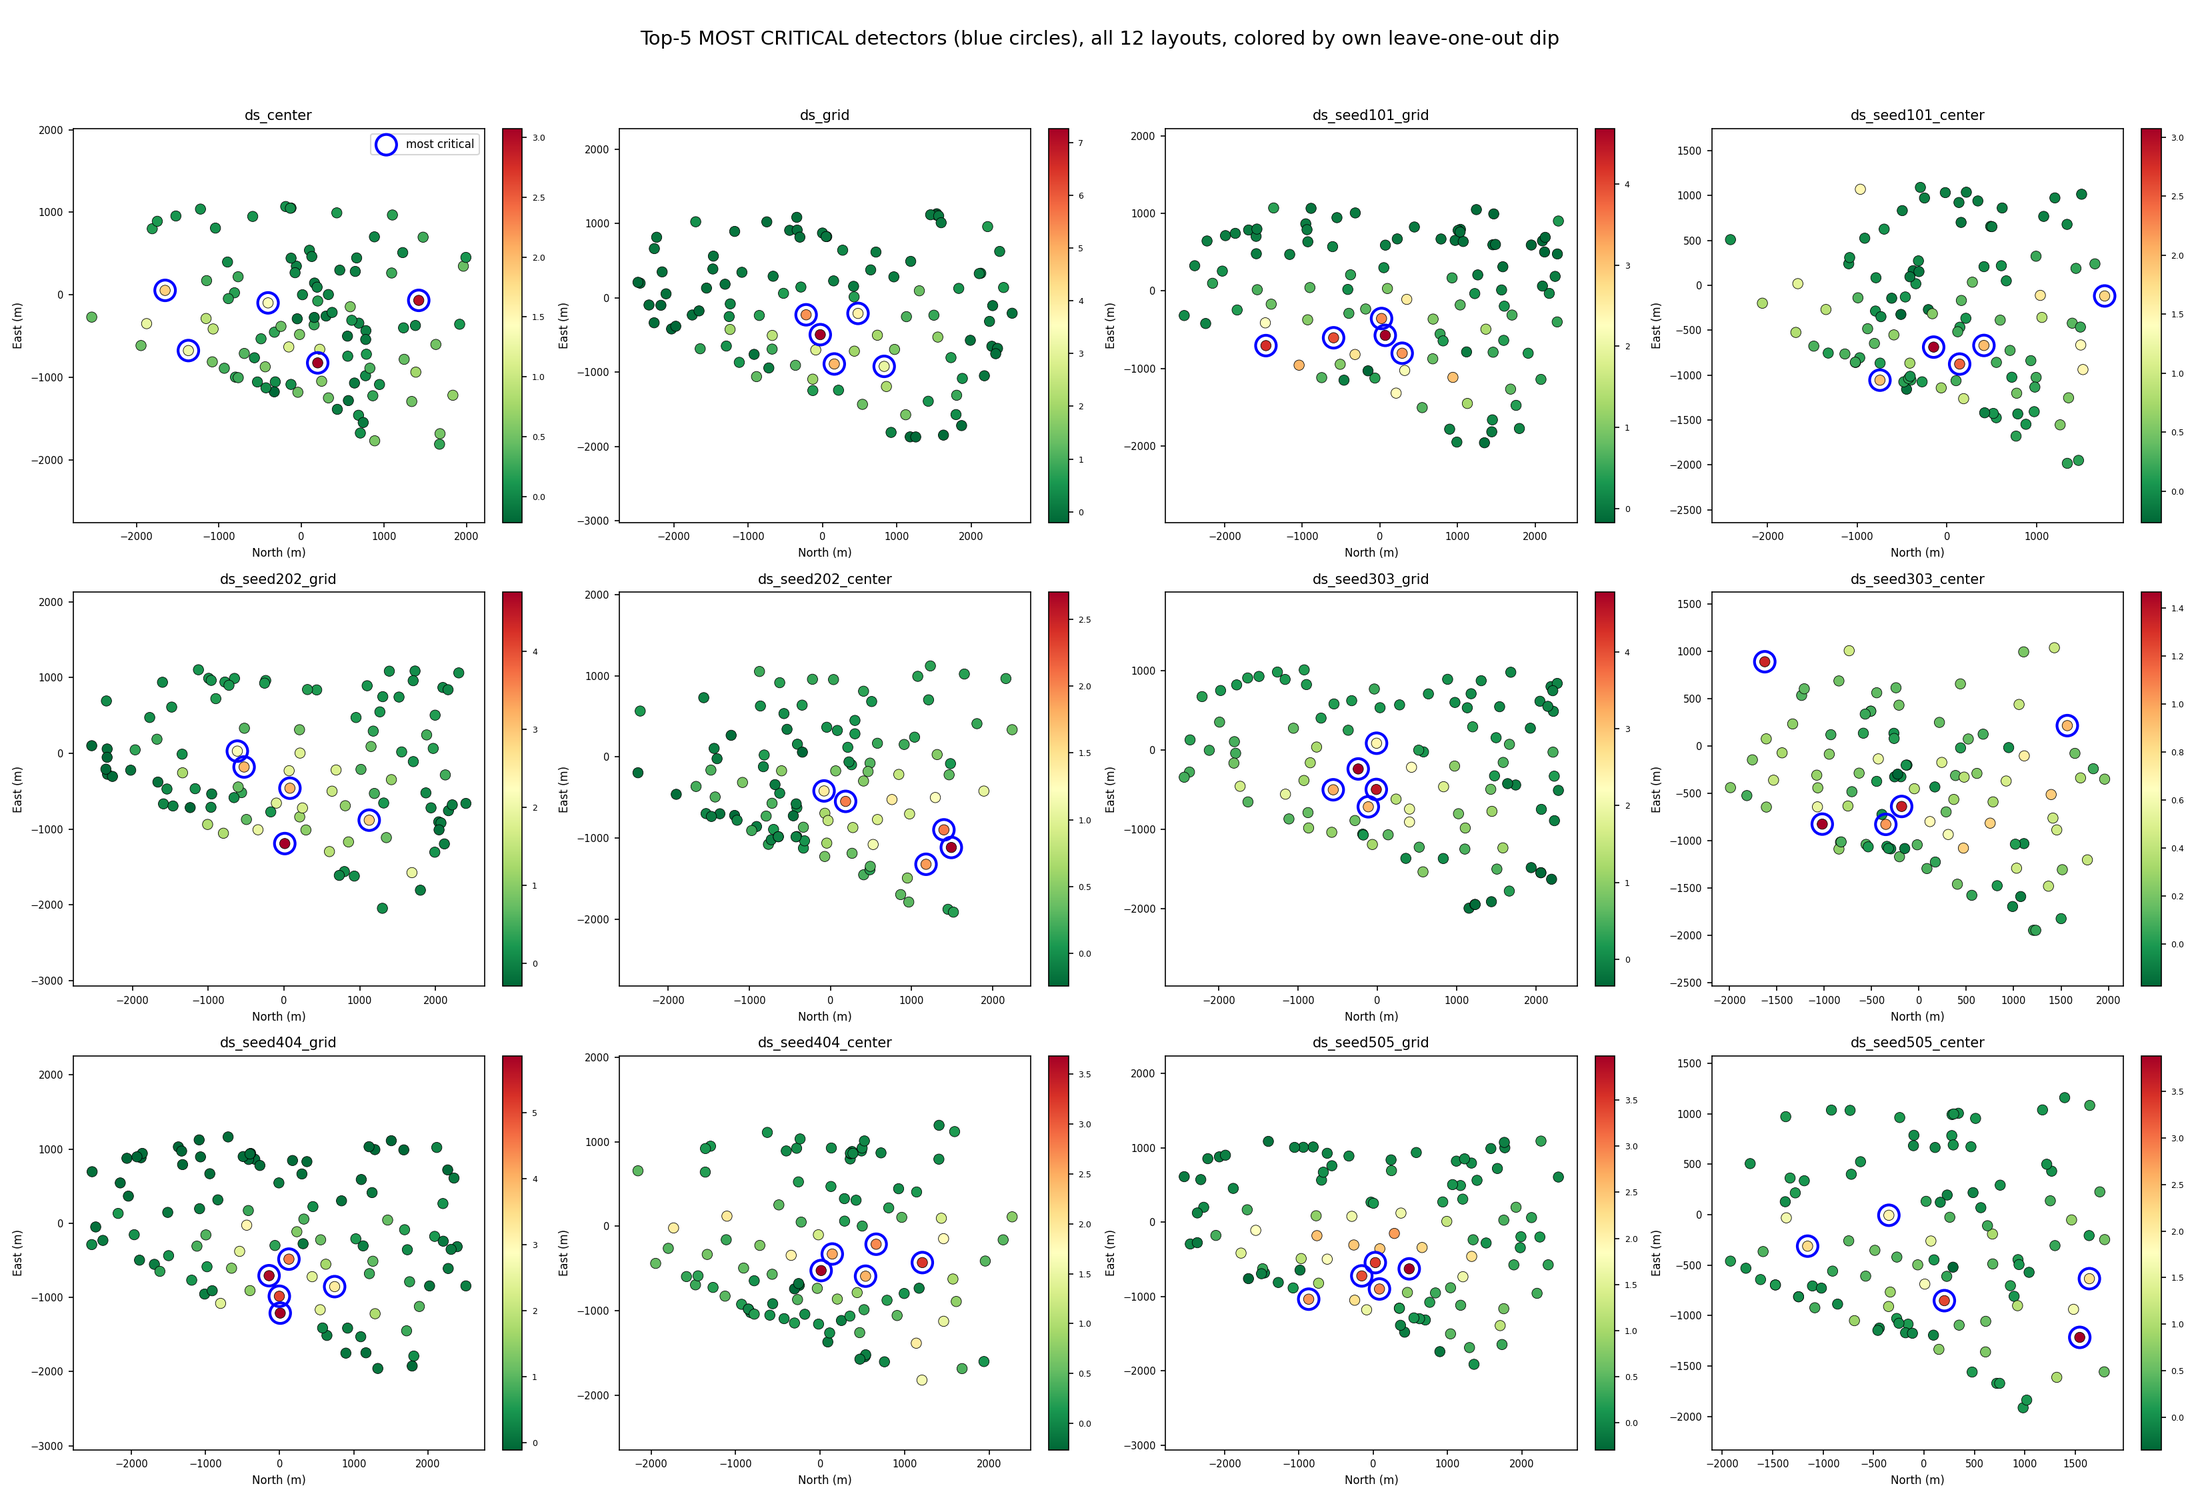
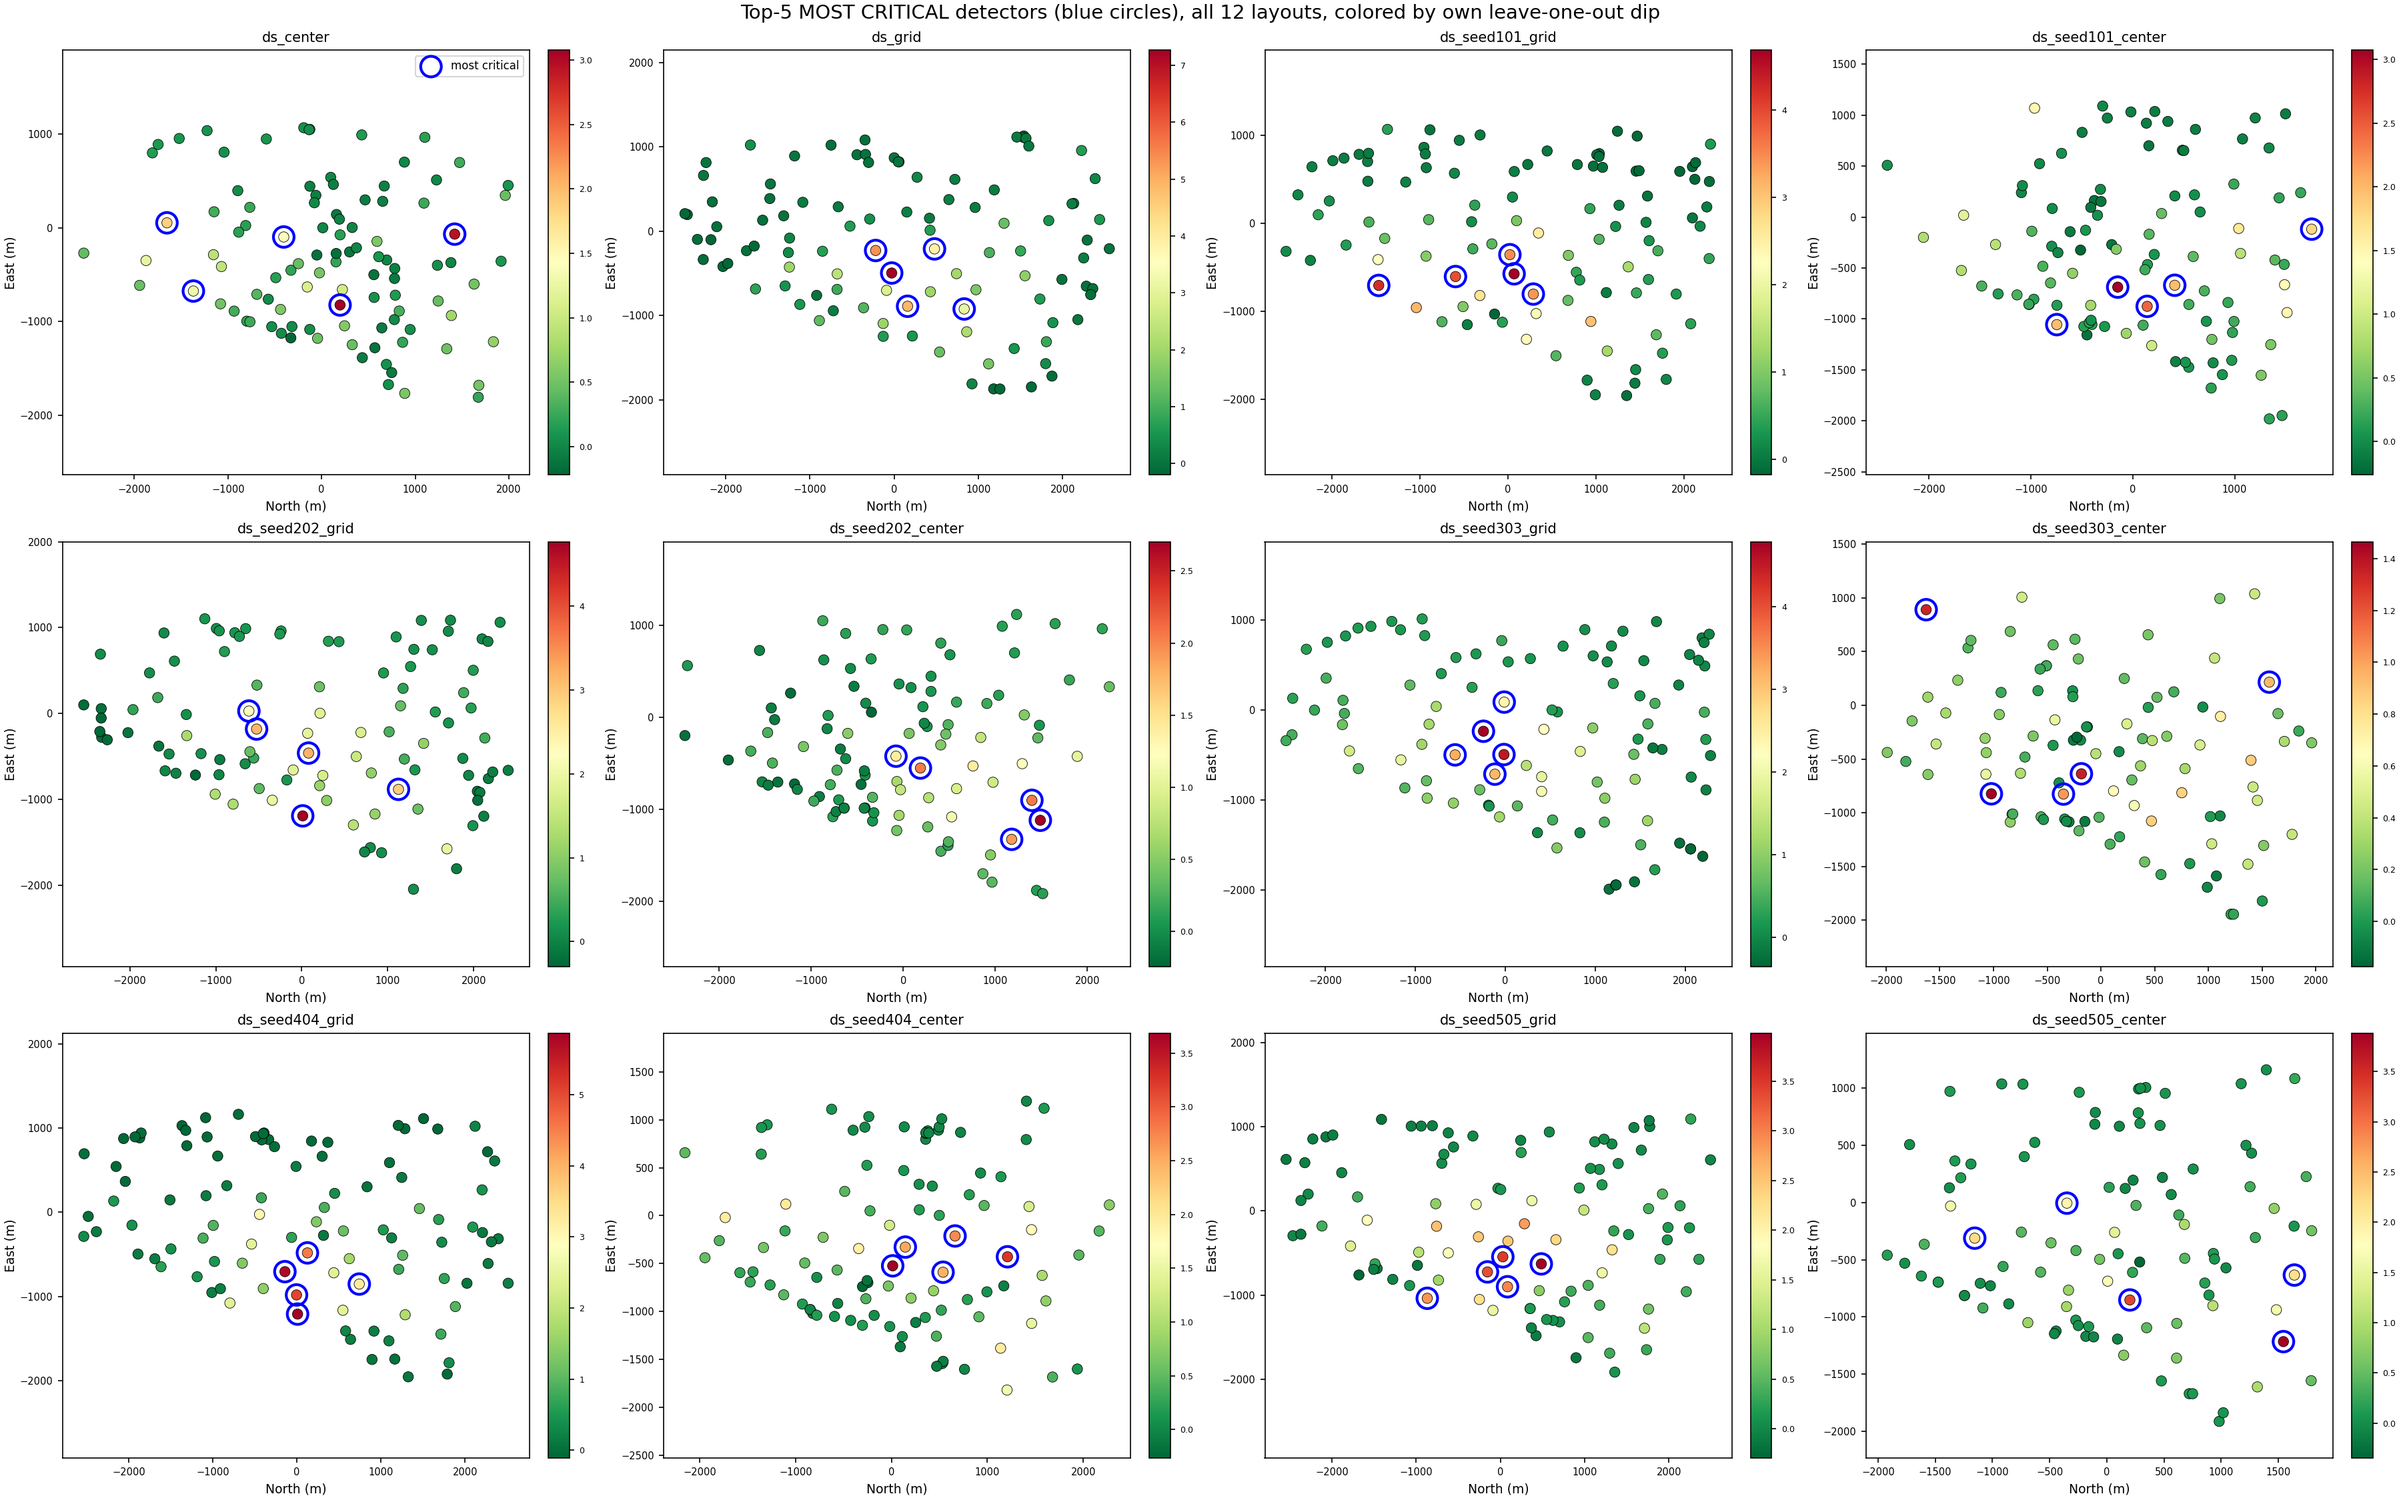
Fix y-axis label visibility in critical/redundant geometry grids

diff --git a/detector_optimization_v6/landscape_analysis/critical_detector_geometry_grid.py b/detector_optimization_v6/landscape_analysis/critical_detector_geometry_grid.py
@@ -84,8 +84,10 @@ import matplotlib.pyplot as plt
 
 
 def build_grid(mode, out_name, title):
-    fig, axes = plt.subplots(3, 4, figsize=(22, 15))
-    for ax, info in zip(axes.flat, per_layout):
+    n_rows, n_cols = 3, 4
+    fig, axes = plt.subplots(n_rows, n_cols, figsize=(24, 15), constrained_layout=True)
+    for i, (ax, info) in enumerate(zip(axes.flat, per_layout)):
+        row, col = divmod(i, n_cols)
         xy, dips = info["xy"], info["dips"]
         sc = ax.scatter(xy[:, 0], xy[:, 1], c=dips, cmap="RdYlGn_r", s=55,
                          edgecolor="k", linewidth=0.4, zorder=2)
@@ -99,14 +101,13 @@ def build_grid(mode, out_name, title):
             ax.scatter(xy[idx, 0], xy[idx, 1], facecolor="none", edgecolor="black",
                        s=140, linewidth=1.6, marker="s", zorder=3, label="most redundant")
         ax.set_title(info["tag"], fontsize=10)
-        ax.set_xlabel("North (m)", fontsize=8)
-        ax.set_ylabel("East (m)", fontsize=8)
+        ax.set_xlabel("North (m)", fontsize=9)
+        ax.set_ylabel("East (m)", fontsize=9, labelpad=2)
         ax.tick_params(labelsize=7)
         ax.set_aspect("equal", adjustable="datalim")
 
     axes.flat[0].legend(fontsize=8, loc="best")
     fig.suptitle(title, fontsize=14)
-    fig.tight_layout(rect=[0, 0, 1, 0.96])
     out_path = os.path.join(HERE, out_name)
     fig.savefig(out_path, dpi=150)
     print(f"[plot] wrote {out_path}")
